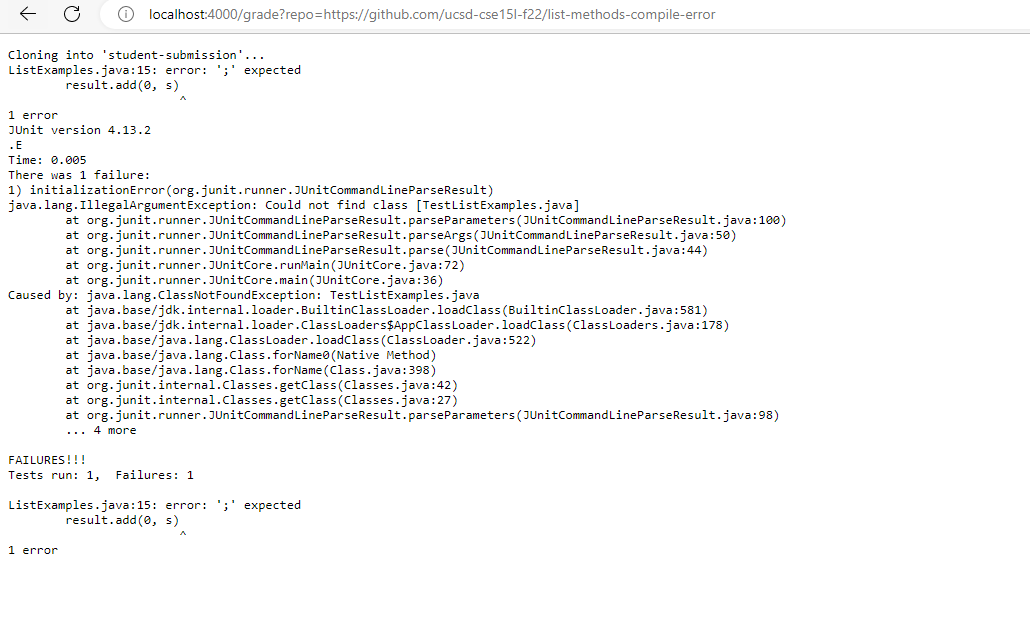
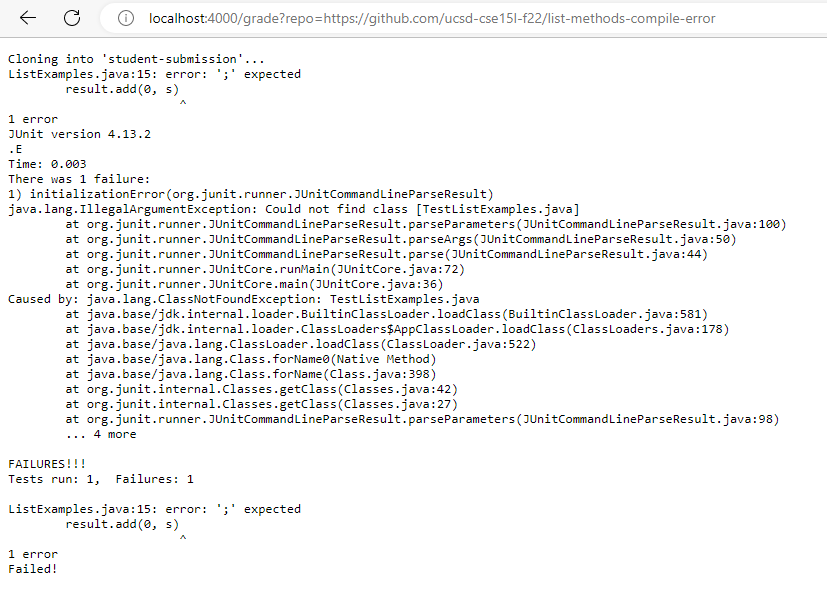
d
d

diff --git a/Week9-lab-report.md b/Week9-lab-report.md
@@ -15,6 +15,13 @@ javac -cp .:lib/hamcrest-core-1.3.jar:lib/junit-4.13.2.jar *.java
 java -cp .:lib/hamcrest-core-1.3.jar:lib/junit-4.13.2.jar org.junit.runner.JUnitCore TestListExamples.java 2> error-output.txt
 
 javac ListExamples.java
+
+if [ $? -eq 0 ];
+ then
+    echo "Succeeded!"
+else
+    echo "Failed!"
+fi
 ```
 image one:
 ![Alt text](First.png)
@@ -51,3 +58,5 @@ Caused by: java.lang.ClassNotFoundException: TestListExamples.java
 	at org.junit.internal.Classes.getClass(Classes.java:27)
 	at org.junit.runner.JUnitCommandLineParseResult.parseParameters(JUnitCommandLineParseResult.java:98)
 	... 4 more". The standard error is empty for this command, as can be seen in the error-output.txt file.
+
+    Lastly, the if loop in the end, the initial if condition was met, because the exit code returned 0. Therefore, the code echoed "Succeeded!". Any other exit code beside 0 would have resulted in an echo of "Failed!". Echo "Failed" did not run due to the exit code being 0. Only one of the if conditions could be met.
